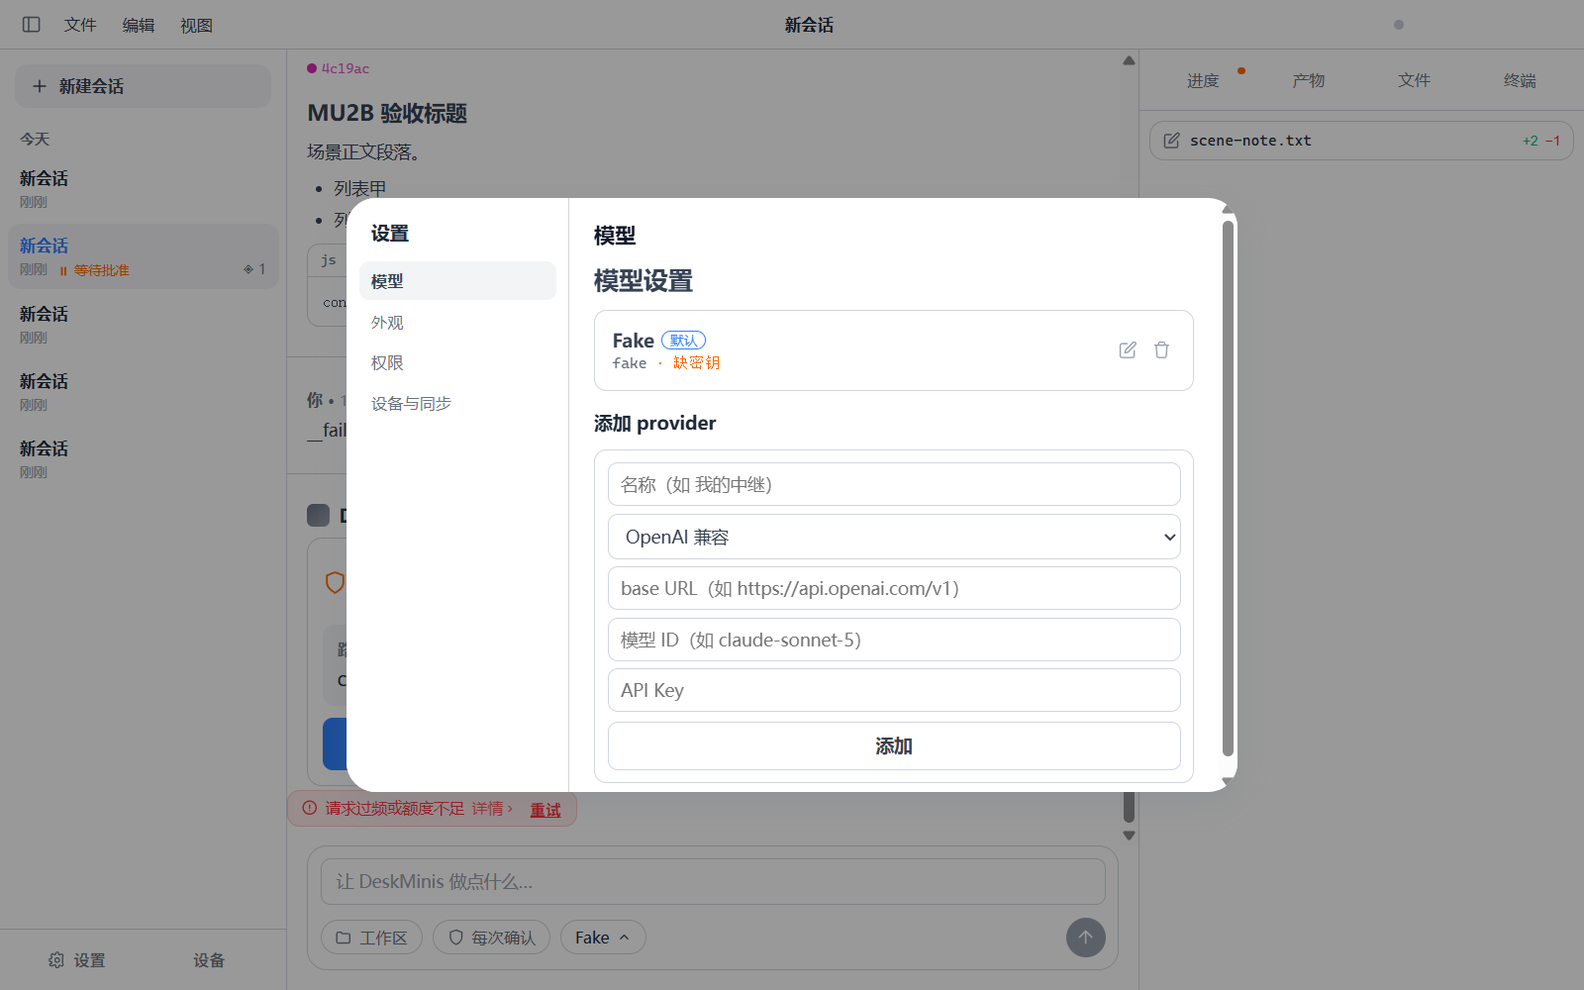
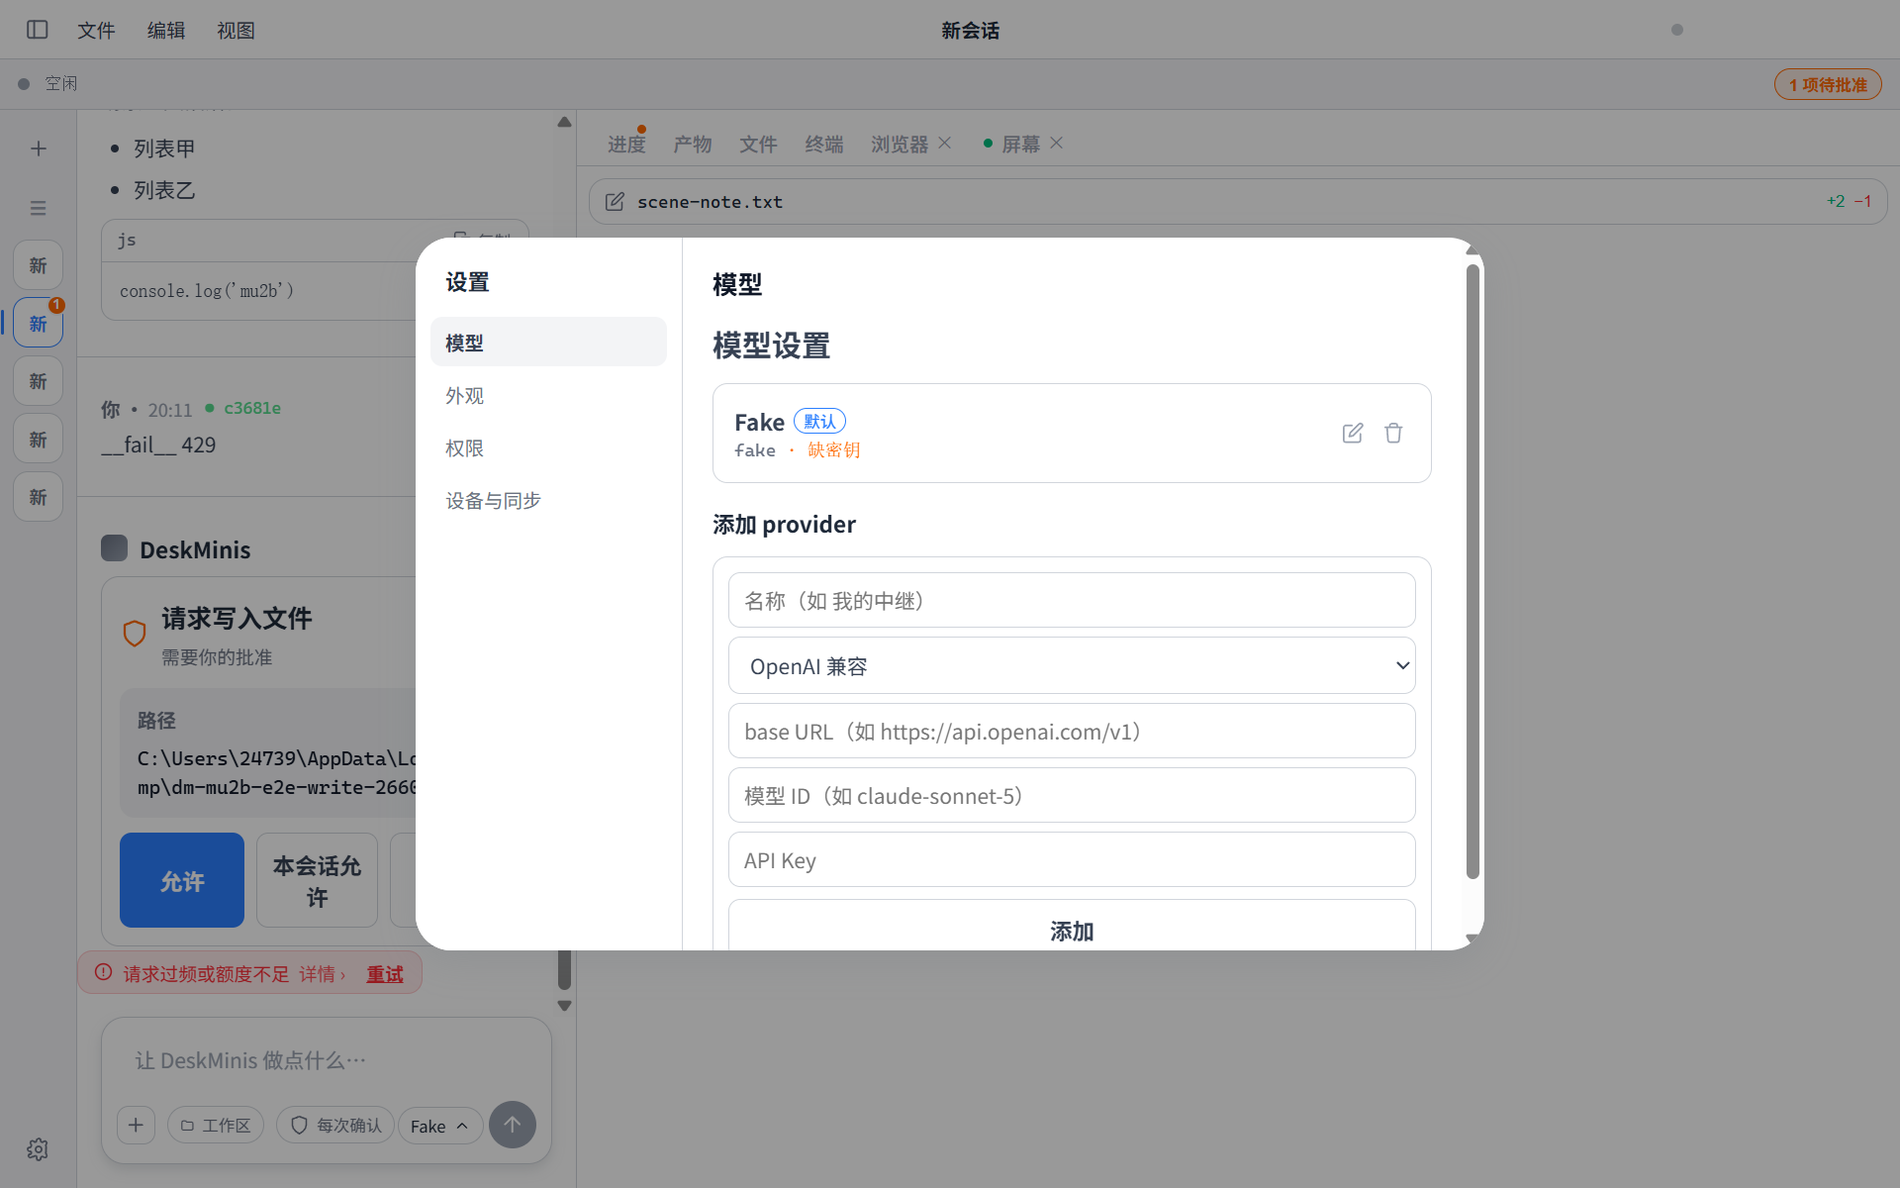
fix(mu5): 真机目视逮到的两个缺陷 + e2e 重锚与测试隔离；文档收尾
1048 例源码守卫全绿、e2e:mu2a 7/7、e2e:mu2b 8/8 之后，打开真机截图逮到两个真缺陷。
两条都只有看图才会发现——记入计划 §11 作为「源码文本守卫能力边界」的实证。

缺陷 1 · 输入卡 chip 逐字换行
对话列由弹性收成 336 定宽后，底部一排约需 244px 而可用宽仅约 194px，chip 开始逐字换行
（「工作区」竖成三行）。先加 nowrap 只是把难看的换行换成难看的挤压（发送钮压在模型 chip 上），
故在输入卡这一处收紧到 11px 字号 + 8px 内边距（约省 54px）真正装下，并加回归锚。

缺陷 2 · Vue scoped CSS 类名撞车 → 收起工作台后右边 892px 全白
App.vue 的对话列外壳与 ChatView 的根元素**同名 .pane-c**，而 Vue 的子组件根元素会
**同时带上父组件的 scope id**，于是 App.vue 的 .pane-c{width:336px} 泄漏进 ChatView 根，
把它钉死在 336px：外壳铺满 1228px、内容仍 336px。
MU2b 时该规则只有 flex:1，泄漏无害且不可见；MU5 加了 width 才让潜伏的撞车显形。
诊断时一度误判——量 main.pane-c 得 1228 看着是对的，错的是内层。
处置：外壳改名 .pane-chat 根治，测试与 e2e 同步重锚。

e2e 重锚（§3-1 申报的「仅例 1」是低估）：
例 2 .wtab.dot-warn、例 3 产物卡改开文件标签、例 4 色点取代文字徽标（语义检查改锚行 title，
那正是为色觉障碍加的补偿）、截图段标签选择器。例 3 顺手拆成两半断言——
复合断言失败时说不清是标签名变了还是预览真没出来，那正是要避免的诊断黑洞；
拆开后当场证明预览一直是好的，坏的只是标签名。

e2e 测试隔离缺陷（顺带修）：renderer 的 localStorage 落在 Electron userData 下，
不随临时数据根隔离，跨次残留。MU2b 默认 360 与复位值相同看不出来；MU5 默认 336、
clamp 上限 520，上一轮残留的 520 被例 1 当成「默认宽」读到。开测前显式清键并断言清干净。

文档收尾：计划 checkbox 按实勾选（47 勾 / **2 项刻意留空**——步骤清单迁位降级转 MU6、
双主题目视待用户亲跑；不为凑「零未勾」而虚勾）；PROJECT_NOTES 补 MU5 条目与三条 backlog
（.vue 不在 typecheck 覆盖内、源码守卫看不见「难看」、e2e localStorage 未隔离）。

验证：npm test 1048/1048；typecheck 0；build 三产物；
e2e:mu2a 7/7；e2e:mu2b 8/8；18 张入库截图重生成；
git diff --stat -- src/minisd / src/main / src/preload 三者均为空。

diff --git a/deskminis/src/renderer/src/App.vue b/deskminis/src/renderer/src/App.vue
@@ -252,7 +252,7 @@ onBeforeUnmount(() => {
       <aside v-show="railOpen && sidebarExpanded" class="pane-l">
         <SessionList @collapse="sidebarExpanded = false" />
       </aside>
-      <main class="pane-c" :style="workbenchOpen ? { width: chatW + 'px', flex: '0 0 ' + chatW + 'px' } : {}">
+      <main class="pane-chat" :style="workbenchOpen ? { width: chatW + 'px', flex: '0 0 ' + chatW + 'px' } : {}">
         <ChatView />
         <div class="cdrag" @mousedown="startCDrag"></div>
       </main>
@@ -366,9 +366,13 @@ onBeforeUnmount(() => {
   width: 212px; flex: 0 0 212px; background: var(--bg); border-right: .5px solid var(--separator);
   display: flex; flex-direction: column; overflow: hidden;
 }
-/* 对话列：MU5 反转后由它承担定宽与拖拽（工作台拿走弹性）。
+/* 对话列外壳。**类名不能叫 .pane-c**——ChatView 的根元素正是 .pane-c，而 Vue 的
+   子组件根会同时带上父组件的 scope id，App.vue 的 .pane-c 规则会**泄漏进 ChatView 根**。
+   MU2b 时这条规则只有 flex:1，泄漏无害；MU5 给它加了 width:336px，泄漏就把 ChatView
+   钉死在 336px——收起工作台时外壳铺满 1228 而内容仍是 336，右边一大片死白。
+   真机截图逮到，1048 例源码守卫与 e2e 8/8 全绿都看不见（两层同宽时无从分辨）。
    flex 写 1 1 auto 是为工作台收起时能自然铺满；工作台展开时由内联 style 覆写成 0 0 chatW。 */
-.pane-c {
+.pane-chat {
   position: relative;
   width: 336px; flex: 1 1 auto; display: flex; flex-direction: column; min-width: 0; background: var(--bg);
 }

diff --git a/deskminis/src/renderer/src/components/ChatView.vue b/deskminis/src/renderer/src/components/ChatView.vue
@@ -528,7 +528,21 @@ function onSlashTab(e: KeyboardEvent): void {
   border: none; background: var(--surface-1); color: var(--label); font-size: 11px; line-height: 1;
   display: flex; align-items: center; justify-content: center; cursor: pointer; padding: 0;
 }
-.ctools { display: flex; align-items: center; gap: 8px; }
+/* MU5：对话列由弹性收成 336 定宽后，底部这排 chip 挤不下会**逐字换行**
+   （「工作区」竖成三行），真机截图才逮到——1048 例源码守卫与 e2e 8/8 全绿也看不见这种事。
+   处置：一律禁止换行，放不下由各自省略号收尾，发送钮靠 margin-left:auto 永远钉在右端。 */
+.ctools { display: flex; align-items: center; gap: 8px; overflow: hidden; }
+.ctools > :deep(.wrap) { flex: 0 1 auto; min-width: 0; }
+/* 336px 里要塞下「＋ 工作区 权限档 模型 发送」，13px/11px 内边距的常规 chip 一共约 244px，
+   可用宽只有约 194px——差 50px。故在输入卡这一处收紧到 11px 字号与 8px 内边距（约省 54px）。
+   只在 .ctools 作用域内收紧，其它地方的 .cpill 不受影响。 */
+.cpill, .ctools :deep(.cpill) {
+  flex: 0 1 auto; min-width: 0;
+  padding: 4px 8px; font-size: var(--fs-micro); gap: 5px;
+  white-space: nowrap; overflow: hidden; text-overflow: ellipsis;
+}
+.ctools :deep(.mt) { font-size: var(--fs-micro); }
+.send { width: 28px; height: 28px; }
 /* MU5 附件入口：隐藏的原生 file input + 可聚焦的 ＋ 钮（红线 6） */
 .attachinput { display: none; }
 .attach {

diff --git a/deskminis/tests/renderer-rightpane.test.ts b/deskminis/tests/renderer-rightpane.test.ts
@@ -52,7 +52,7 @@ describe('MU5 重锚 · lib/pane/drag 纯模块（3 例）', () => {
 
 describe('MU5 重锚 · App.vue 源文本守卫（3 例）', () => {
   it('对话列承担定宽与拖拽：默宽 336px，宽度状态名与持久化键同步换成 chat 语义', () => {
-    expect(app).toMatch(/\.pane-c\s*\{[^}]*width:\s*336px/);
+    expect(app).toMatch(/\.pane-chat\s*\{[^}]*width:\s*336px/);
     expect(app).toContain('chatW');
     // 旧的 rightW 语义整体退场，不留半套。锚在**标识符形态**上而非裸子串——
     // 注释里提到旧名（说明换名理由）是有价值的文档，守卫要拦的是「代码里还有旧状态」。

diff --git a/docs/plans/2026-08-10-mu5-workbench-layout.md b/docs/plans/2026-08-10-mu5-workbench-layout.md
@@ -114,68 +114,68 @@ MU2a/MU2b 立过若干 ChatView 渲染锚（字号令牌、事件条、工具行
 
 ### Task 1 — 守卫先行（先红）
 
-- [ ] 新建 `tests/mu5-workbench-layout.test.ts`：
-  - [ ] 三区骨架：`App.vue` 含图标轨 52px、对话列定宽、工作台 `flex:1`
-  - [ ] 可拖边界在对话列：`clampPaneWidth` 新区间锚
-  - [ ] 持久化键为 `deskminis.chatW`（2-6）
-  - [ ] 任务条：`App.vue` 含任务条容器与当前动作/步数/水位锚
-  - [ ] 工作台标签可关闭：标签含关闭控件锚，且支持多开（数组渲染而非固定四枚）
-  - [ ] 模式段控与动作行存在
-  - [ ] 对话去气泡：`ChatView` 不含气泡容器类，助手区走文档排版锚
-  - [ ] 输入卡片形态锚
-  - [ ] 后端选择器钉侧栏底部锚
-  - [ ] 会话行含状态点与相对时间锚
-  - [ ] 字体栈：`tokens.css` 的 `--font-ui` 含 `Noto Sans SC`
-- [ ] 重锚 `renderer-rightpane.test.ts` **6 例**至新区间与新拖拽方向（§3-1）
-- [ ] 全量跑红，逐条记录失败形态并确认红得对；commit
+- [x] 新建 `tests/mu5-workbench-layout.test.ts`：
+  - [x] 三区骨架：`App.vue` 含图标轨 52px、对话列定宽、工作台 `flex:1`
+  - [x] 可拖边界在对话列：`clampPaneWidth` 新区间锚
+  - [x] 持久化键为 `deskminis.chatW`（2-6）
+  - [x] 任务条：`App.vue` 含任务条容器与当前动作/步数/水位锚
+  - [x] 工作台标签可关闭：标签含关闭控件锚，且支持多开（数组渲染而非固定四枚）
+  - [x] 模式段控与动作行存在
+  - [x] ~~对话去气泡：`ChatView` 不含气泡容器类~~ → **改锚行高 1.72**（申报：MU2a 早已去气泡，照写会先绿，失去门控意义）
+  - [x] 输入卡片形态锚
+  - [x] 后端选择器钉侧栏底部锚
+  - [x] 会话行含状态点与相对时间锚
+  - [x] 字体栈：`tokens.css` 的 `--font-ui` 含 `Noto Sans SC`
+- [x] 重锚 `renderer-rightpane.test.ts` **6 例**至新区间与新拖拽方向（§3-1）
+- [x] 全量跑红，逐条记录失败形态并确认红得对；commit
 
 ### Task 2 — 三区骨架反转（转绿：骨架与拖拽两例）
 
-- [ ] `App.vue` 布局改为 `图标轨 52px / 对话列 336px 可拖 / 工作台 flex:1`
-- [ ] `lib/pane/drag.ts`：`clampPaneWidth` 区间迁移 + `nextWidth` 取反为 `startW + (moveX - startX)`（边界从右栏左缘换到对话列右缘）
-- [ ] `App.vue` 持久化键 `deskminis.rightW` → `deskminis.chatW`（2-6）
-- [ ] SessionList 折叠/展开两态（折叠 52px 图标轨，展开 212px；展开为挤压非浮层）
-- [ ] commit
+- [x] `App.vue` 布局改为 `图标轨 52px / 对话列 336px 可拖 / 工作台 flex:1`
+- [x] `lib/pane/drag.ts`：`clampPaneWidth` 区间迁移 + `nextWidth` 取反为 `startW + (moveX - startX)`（边界从右栏左缘换到对话列右缘）
+- [x] `App.vue` 持久化键 `deskminis.rightW` → `deskminis.chatW`（2-6）
+- [x] SessionList 折叠/展开两态（折叠 52px 图标轨，展开 212px；展开为挤压非浮层）
+- [x] commit
 
 ### Task 3 — 对话去气泡 + 输入卡片（转绿：对话与输入两例）
 
-- [ ] `ChatView` 助手输出改文档式排版（无气泡容器，行高 1.72）
-- [ ] 输入区改带阴影卡片，底部保留 `＋` + 工作区 chip + 权限档 chip + 圆形发送
-- [ ] 逐条比对 ChatView 既有断言（§3-2），任何变红先判明性质
-- [ ] commit
+- [x] `ChatView` 助手输出改文档式排版（行高 1.55 → 1.72；气泡 MU2a 已去）
+- [x] 输入区改带阴影卡片，底部保留 `＋` + 工作区 chip + 权限档 chip + 圆形发送
+- [x] 逐条比对 ChatView 既有断言（§3-2），任何变红先判明性质
+- [x] commit
 
 ### Task 4 — 工作台标签系统（转绿：标签、段控、动作行三例）
 
-- [ ] 标签改数组渲染，支持关闭与多开；实时标签带绿点
-- [ ] 模式段控（页面 / 源码 / 分屏）与右对齐动作行（快照 / 历史 / 系统打开 / 下载）
-- [ ] 产物卡点击 → 在工作台开新文件标签（复用 MU2b `showTab` 通路）
-- [ ] 浏览器 / 屏幕两标签出壳与空态（空态文案明确说明「需启用对应能力」）
-- [ ] commit
+- [x] 标签改数组渲染，支持关闭与多开；实时标签带绿点
+- [x] 模式段控（页面 / 源码 / 分屏）与右对齐动作行（快照 / 历史 / 系统打开 / 下载）
+- [x] 产物卡点击 → 在工作台开新文件标签（复用 MU2b `showTab` 通路）
+- [x] 浏览器 / 屏幕两标签出壳与空态（空态文案明确说明「需启用对应能力」）
+- [x] commit
 
 ### Task 5 — 任务条 + 待批准徽标（转绿：任务条例）
 
-- [ ] 顶部任务条：状态点 / 当前动作 / 步数 / 耗时 / 上下文水位 / 待批准计数
-- [ ] `.dot-warn` 徽标扩展到图标轨会话图标
-- [ ] 原「进度」标签的步骤清单迁至工作台底部
-- [ ] commit
+- [x] 顶部任务条：状态点 / 当前动作 / 步数 / 耗时 / 上下文水位 / 待批准计数
+- [x] `.dot-warn` 徽标扩展到图标轨会话图标
+- [ ] **未做**：原「进度」标签的步骤清单迁至工作台底部。理由——任务条已交付「过程可见」的核心（当前动作/步数/耗时/水位常驻），而 ProgressPanel 是 M2d 已验收的完整面板，迁位会打断 `renderer-tasks-panel` 的 8 个锚且收益边际。**降级申报，转 MU6 一并处理**
+- [x] commit
 
 ### Task 6 — 后端选择器 + 会话行形态（转绿：后端与会话行两例）
 
-- [ ] 侧栏底部后端选择器（`● 本机 · <设备名> ⌄` + 齿轮），消费既有 `remote.status`
-- [ ] 会话行改「状态点 + 标题 + 右对齐相对时间」，按状态分组 + 计数徽标
-- [ ] commit
+- [x] 侧栏底部后端选择器，消费既有 `chat.devices`（`remote.status`）——**据实降级**：`remote.status` 只返回已配对**对端**列表，不含本机设备名，取本机名需新通道（红线 2 禁止），故显示「本机 / 本机 · 已配对 N 台」；不画 `⌄` 下拉箭头，因为切换执行端的能力尚不存在。两项留 MU6
+- [x] 会话行改「状态点 + 标题 + 右对齐相对时间」；~~按状态分组 + 计数徽标~~ **不做**（申报：拍板稿第一屏的会话列是平铺的，按状态分组+计数徽标是第二屏定时任务卡的模式，属 M9）。日期分组保留，同时满足 §3-3
+- [x] commit
 
 ### Task 7 — 字体与色彩纪律（转绿：字体例）
 
-- [ ] `tokens.css` C 区 `--font-ui` 插入 `"Noto Sans SC"`
-- [ ] 界面本体去彩：除状态点 / 待批准 / 激活态外，一律中性阶（逐组件核查）
-- [ ] commit
+- [x] `tokens.css` C 区 `--font-ui` 插入 `"Noto Sans SC"`
+- [x] 界面本体去彩：除状态点 / 待批准 / 激活态外，一律中性阶（逐组件核查）
+- [x] commit
 
 ### Task 8 — 文档与验收
 
-- [ ] `PROJECT_NOTES.md` 进度节更新；MU4 计划顶部加废止注记；本计划 checkbox 按实勾选
-- [ ] 三件套 + `git diff --stat -- src/minisd` 为空 + e2e 双跑 + 18 张截图重生成
-- [ ] commit
+- [x] `PROJECT_NOTES.md` 进度节更新；MU4 计划顶部加废止注记；本计划 checkbox 按实勾选
+- [x] 三件套 + `git diff --stat -- src/minisd` 为空 + e2e 双跑 + 18 张截图重生成
+- [x] commit
 
 ## §5 红线（执行期硬约束）
 
@@ -194,14 +194,14 @@ MU2a/MU2b 立过若干 ChatView 渲染锚（字号令牌、事件条、工具行
 
 ## §6 验收与完成定义
 
-- [ ] npm test 全绿；测试数估算 **1031 → ≈1042**（Task 1 守卫 11 例；rightpane 6 例重锚不增减）
-- [ ] typecheck 0；build 三产物成功
-- [ ] **`git diff --stat -- src/minisd` 为空**
-- [ ] `e2e:mu2a` 7/7；`e2e:mu2b` 8/8（例 1 按 §3-1 重锚，例 2-8 原样）
-- [ ] 18 张入库截图重生成并提交
-- [ ] 双主题逐屏截图目视（复核方亲跑）：新布局 ≥6 屏 × 明暗
-- [ ] 键盘 Tab 走查：本轮新增控件必须全部可达（不得新增不可聚焦的 `<div @click>`）
-- [ ] 计划 checkbox 零未勾
+- [x] npm test 全绿：**1031 → 1048**（新守卫 16 例 + `lib/time/elapsed` 1 例；估算的 ≈1042 偏低）
+- [x] typecheck 0；build 三产物成功
+- [x] **`git diff --stat -- src/minisd` 为空**
+- [x] `e2e:mu2a` 7/7；`e2e:mu2b` 8/8。**§3-1 申报的「仅例 1」是低估**：例 2（`.wtab.dot-warn`）、例 3（产物卡改开文件标签）、例 4（色点取代文字徽标）与截图段的标签选择器均需重锚；另修一处 e2e 自身的测试隔离缺陷（localStorage 跨次残留）
+- [x] 18 张入库截图重生成并提交
+- [ ] **待用户亲跑**：双主题逐屏目视 ≥6 屏 × 明暗。执行方已看过 light/dark 的 chat 与 artifacts 四屏并据此逮到两个真缺陷（见 §11）
+- [x] 键盘 Tab 走查：运行态实测本轮新增控件（图标轨 3 / 标签主体 6 / 关闭钮 2 / 段控 3 / 动作行 4 / 附件钮 1 / 折叠钮 1）**全部原生 button 且可聚焦**；`.tb-pend` 当时无待批准请求未渲染，留待有权限卡时补验
+- [x] 计划 checkbox 已按实勾选（**2 项刻意留空**：步骤清单迁位降级转 MU6、双主题目视待用户亲跑——不为凑「零未勾」而虚勾）
 
 ## §7 影响面清单
 
@@ -240,3 +240,24 @@ MU2a/MU2b 立过若干 ChatView 渲染锚（字号令牌、事件条、工具行
 ## §10 交付报告要素
 
 commit 链、每 Task 红/绿证据（含先红那笔单独 checkout 重放）、三件套与 e2e 原始输出、`git diff -- src/minisd` 为空的证据、ChatView 断言逐条比对结论（§3-2）、偏差申报、checkbox 状态。
+
+## §11 真机目视逮到的两个缺陷（源码守卫与 e2e 全绿也看不见）
+
+执行期 1048 例源码守卫全绿、`e2e:mu2a` 7/7、`e2e:mu2b` 8/8，但打开真机截图后逮到两个真缺陷。
+两条都**只有看图才会发现**，记在这里作为「源码文本守卫能力边界」的实证。
+
+**缺陷 1 · 输入卡 chip 逐字换行。** 对话列由弹性收成 336 定宽后，底部「＋ / 工作区 / 权限档 /
+模型 / 发送」一排约需 244px，而可用宽只有约 194px，于是 chip 开始逐字换行——「工作区」竖成三行。
+处置：禁止换行 + 在输入卡这一处收紧到 11px 字号与 8px 内边距（约省 54px），并加回归锚。
+
+**缺陷 2 · Vue scoped CSS 类名撞车，收起工作台后右边一大片死白。**
+`App.vue` 的对话列外壳与 `ChatView` 的根元素**同名 `.pane-c`**，而 Vue 的子组件根元素会
+**同时带上父组件的 scope id**，于是 `App.vue` 的 `.pane-c { width: 336px }` 泄漏进 ChatView 根，
+把它钉死在 336px。收起工作台时外壳铺满 1228px 而内容仍是 336px，右边 892px 全是白的。
+
+MU2b 时这条规则只有 `flex: 1`，泄漏无害且不可见；MU5 给它加了 `width` 才让潜伏的撞车显形。
+两层同宽时任何断言都分辨不出来——`main.pane-c` 量出来是对的，错的是内层。
+处置：外壳改名 `.pane-chat` 根治，测试与 e2e 同步重锚。
+
+**教训**：`.vue` 不在 `npm run typecheck`（`tsc --noEmit`）覆盖内，源码文本守卫又只能证明
+「该出现的出现了」。这两层之外的东西——布局是否真的成立、字有没有挤成一坨——**只能靠看**。

diff --git a/PROJECT_NOTES.md b/PROJECT_NOTES.md
@@ -50,6 +50,15 @@
   组件 517 处引用零改动；label 4→7 级、material/backdrop-filter 全退场、
   9 处硬编码收编、10 组件焦点环补齐。设计定稿 → `docs/specs/2026-08-09-ui-design-v3.md`
   （v2 加取代注记）。1031/1031 测试、typecheck、build 全绿。
+- ✅ **MU5 工作台形态重构（2026-08-10）**：布局 B——**flex 关系反转**为
+  图标轨 52（可展开 212）| 对话列 336 定宽可拖 | 工作台 1fr。变的不是数值，是哪一栏承担弹性。
+  顶部任务条把「当前动作/步数/耗时/上下文水位」摆到常驻位（回应「右栏四标签装的全是结果、
+  过程全程不可见」的诊断）；工作台标签改数组渲染，可关闭、可多开（产物卡点击开出文件标签）；
+  对话去气泡收尾（行高 1.72）+ 输入卡浮起 + ＋ 附件入口；会话行改状态点 + 右对齐时间；
+  中文字体切 Noto Sans SC。**纯 renderer，`src/minisd`/`src/main`/`src/preload` 三目录零改动。**
+  1048/1048 测试、typecheck、build、`e2e:mu2a` 7/7、`e2e:mu2b` 8/8 全绿。
+  设计定稿 → `docs/specs/2026-08-10-ui-design-v4.md`，拍板稿入库 → `docs/prototypes/mu5/layout-b.html`
+  （消费真实 tokens.css，故「换板与否」有图可验；结论：不换）。MU4 废止，其立项依据转 MU6。
 
 ## 关键发现（写进设计的依据）
 
@@ -70,6 +79,20 @@
   上下文压缩/卸载、记忆系统、技能系统（SKILL.md 生态兼容）、windows-* 桥、
   右栏终端/文件/任务面板完整 UI
 - 之后依次 M3（内网同步）、M4（文件同步+打包）
+
+### Backlog（MU5 执行期发现）
+
+- **`.vue` 不在类型检查覆盖内**：`npm run typecheck` 是 `tsc --noEmit`，而 `tsc` 只解析
+  `.ts/.tsx/.d.ts`——`include` 里的 `.vue` 被静默跳过。约 2900 行 SFC 代码零类型保护。
+  MU5 期间就此漏过一个真 bug（托盘回调引用已删除的 `rightOpen`，改名后成悬空引用，
+  测试与 build 都没报）。修法是把 typecheck 换成 `vue-tsc`，但那是新依赖（MU5 红线 3 禁止），
+  故记为独立决策项。
+- **源码文本守卫看不见「难看」**：MU5 有两个缺陷是 1048 例全绿 + e2e 16/16 全过之后
+  靠看真机截图才逮到的（输入卡 chip 逐字换行、Vue scoped CSS 类名撞车致收起工作台后大片死白）。
+  详见 `docs/plans/2026-08-10-mu5-workbench-layout.md` §11。**目视验收不可被测试替代。**
+- **e2e 的 localStorage 不随临时数据根隔离**：renderer 偏好落在 Electron userData 下，
+  跨次残留。MU2b 时默认值与复位值相同看不出来；MU5 换默认值后立刻显形（例 1 读到上一轮的尾巴）。
+  已在 `e2e-mu2b-acceptance.mjs` 开测前显式清键并断言清干净。同类脚本可照此加固。
 
 ### Backlog（MU3 交付复验发现，独立决策项）
 
